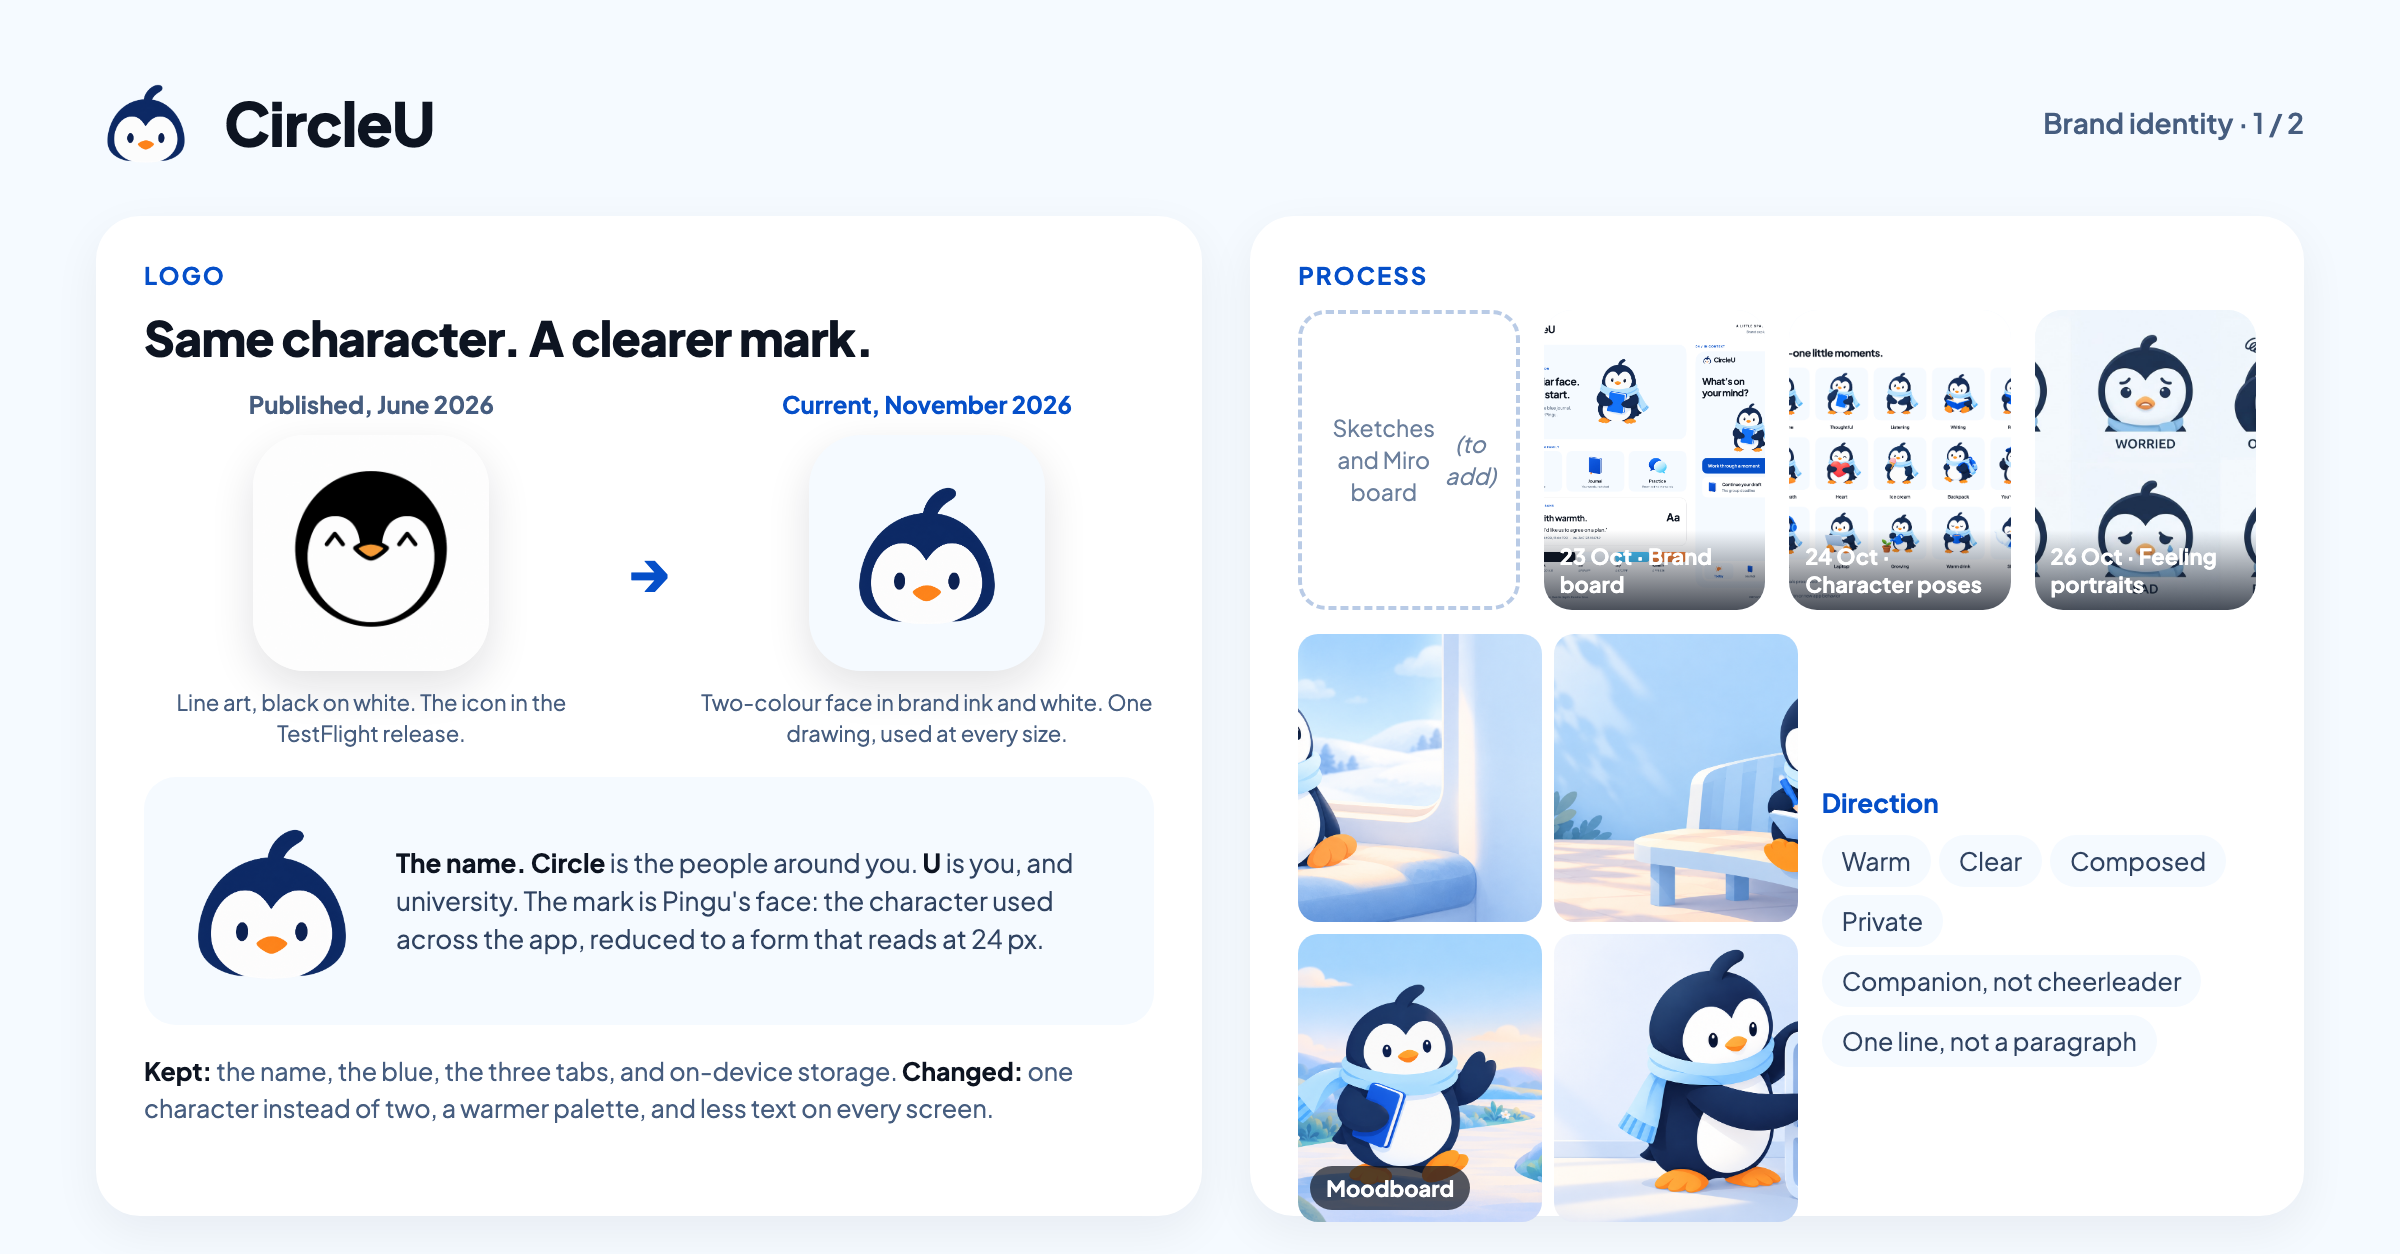
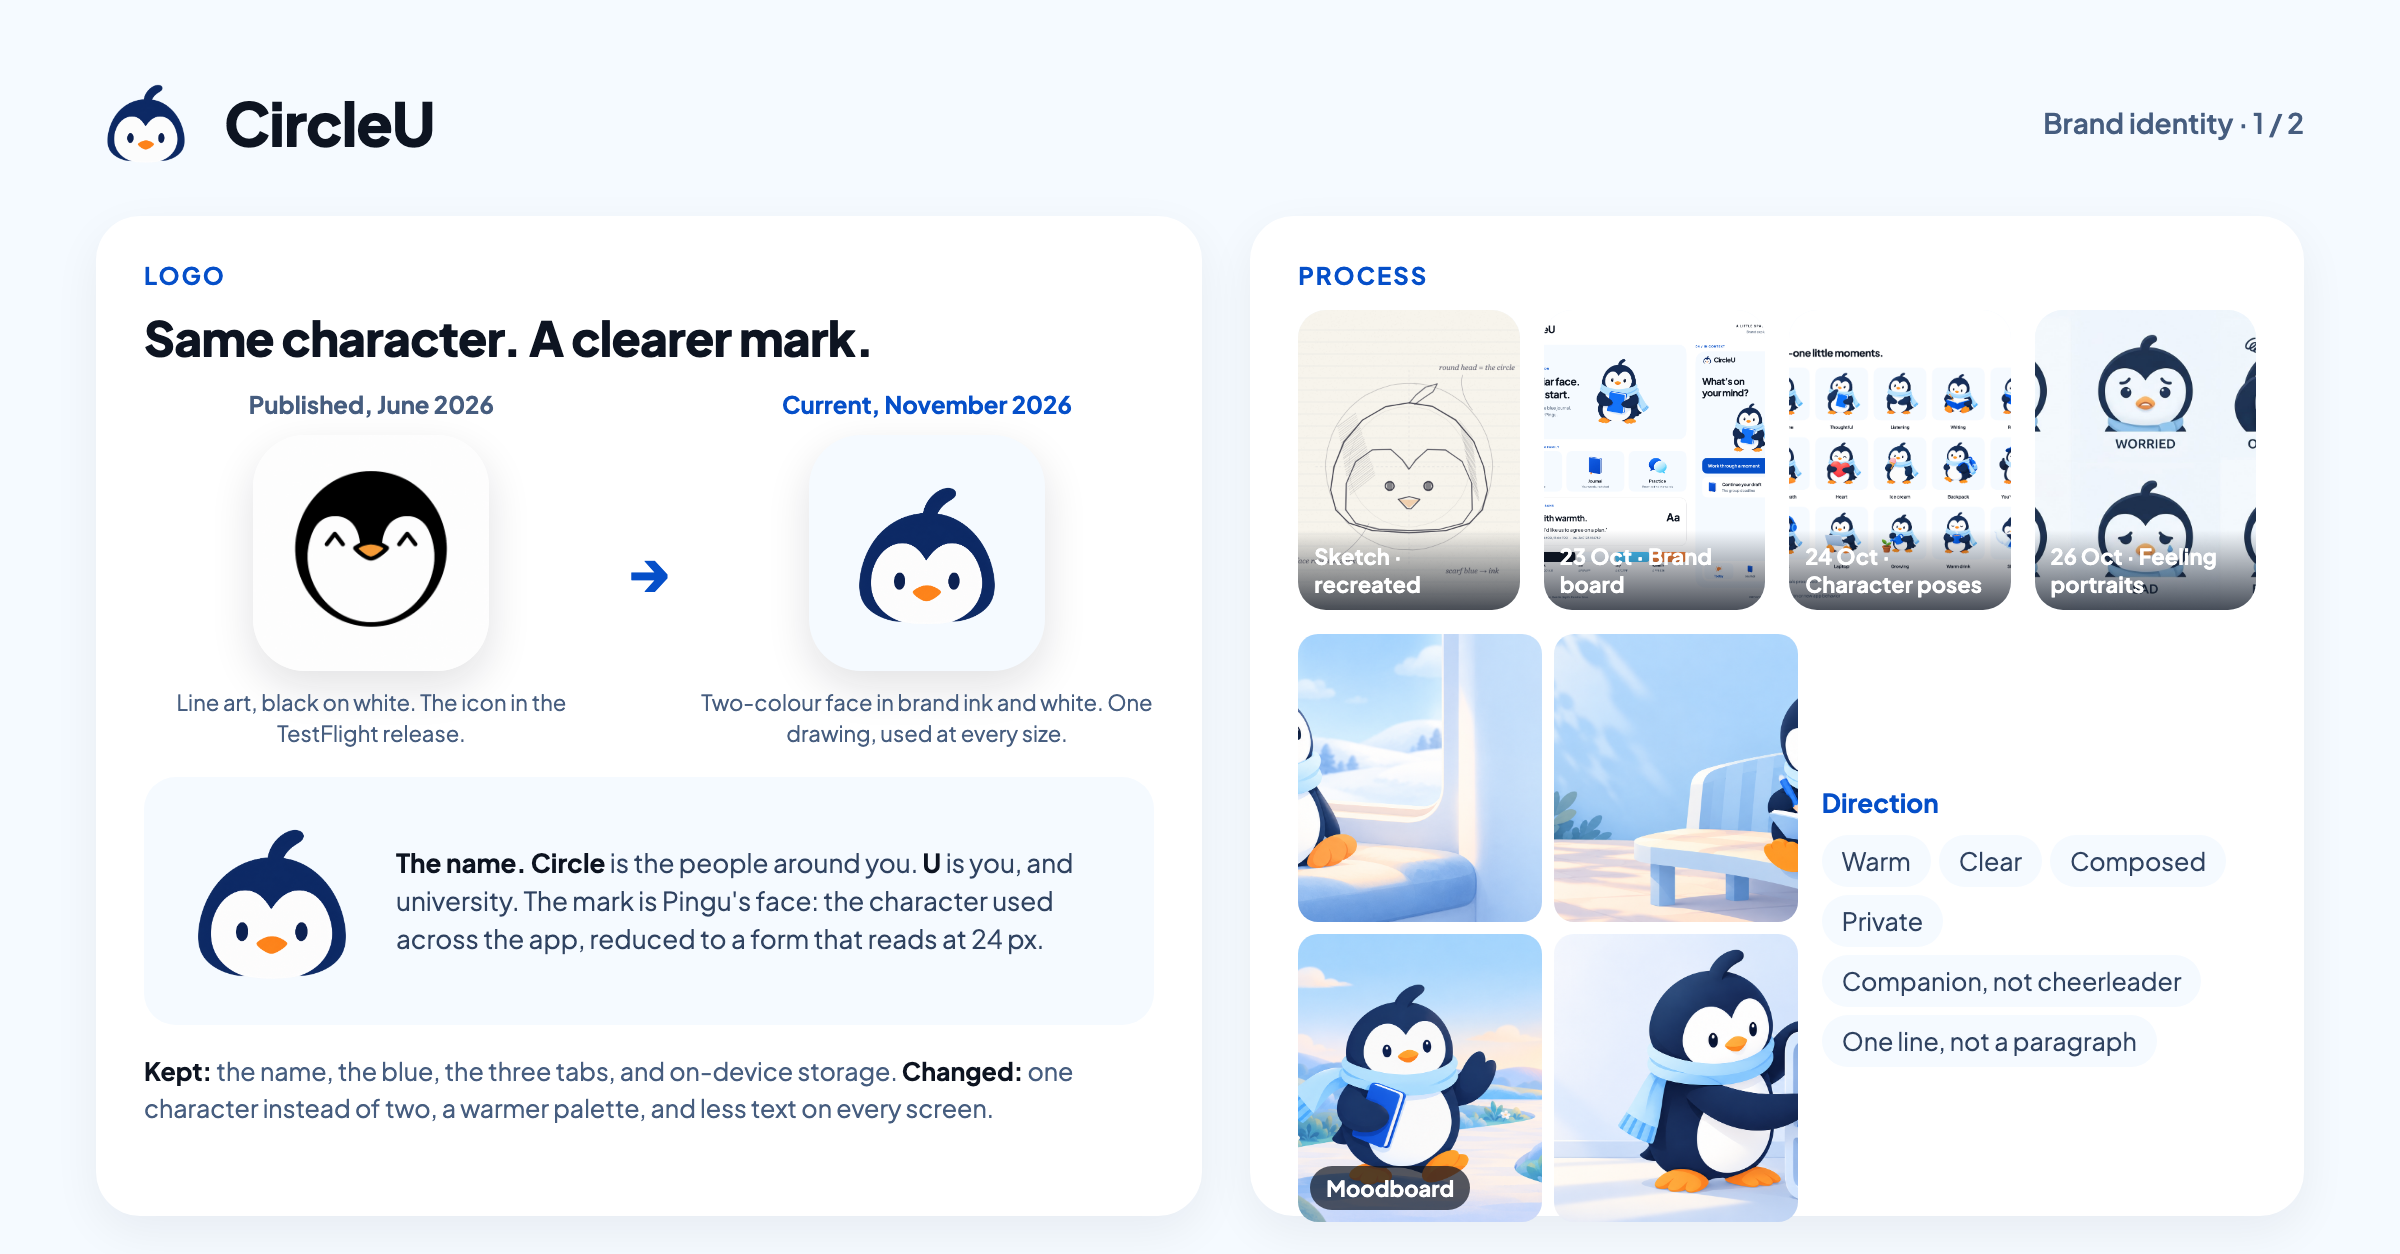
docs(linkedin): recreated construction sketch of the mark fills the process slot on brand slide 1

Changed region(s): [[0.5312, 0.2799, 0.6562, 0.4976]]

diff --git a/docs/design/showcase-2026-10-30/refinement-07/linkedin/sketch.html b/docs/design/showcase-2026-10-30/refinement-07/linkedin/sketch.html
@@ -1,0 +1,37 @@
+<!doctype html><html><head><meta charset="utf-8"><style>*{margin:0}html,body{width:900px;height:900px;overflow:hidden;background:#fff}canvas{display:block}</style></head><body>
+<canvas id="c" width="900" height="900"></canvas>
+<script>
+const c=document.getElementById('c'),x=c.getContext('2d');
+// paper
+x.fillStyle='#f7f4ec';x.fillRect(0,0,900,900);
+let seed=7;const rnd=()=>{seed=(seed*9301+49297)%233280;return seed/233280};
+for(let i=0;i<9000;i++){x.fillStyle=`rgba(90,80,60,${0.03+rnd()*0.05})`;x.fillRect(rnd()*900,rnd()*900,1.2,1.2)}
+// faint ruled lines
+x.strokeStyle='rgba(120,140,190,.18)';x.lineWidth=1;for(let y=60;y<900;y+=36){x.beginPath();x.moveTo(40,y);x.lineTo(860,y);x.stroke()}
+x.lineCap='round';x.lineJoin='round';
+function wob(fn,passes,alpha,w){for(let p=0;p<passes;p++){x.strokeStyle=`rgba(40,40,55,${alpha})`;x.lineWidth=w+rnd()*0.8;x.beginPath();fn(p);x.stroke()}}
+function circle(cx,cy,r,passes,alpha,w){wob(p=>{const o=rnd()*6.28;for(let t=0;t<=6.4;t+=0.08){const j=(rnd()-0.5)*2.2;const px=cx+(r+j)*Math.cos(t+o),py=cy+(r+j)*Math.sin(t+o);t===0?x.moveTo(px,py):x.lineTo(px,py)}},passes,alpha,w)}
+function path(pts,passes,alpha,w){wob(p=>{pts.forEach(([px,py],i)=>{const jx=px+(rnd()-0.5)*2.5,jy=py+(rnd()-0.5)*2.5;i?x.lineTo(jx,jy):x.moveTo(jx,jy)})},passes,alpha,w)}
+// construction circles (light)
+circle(450,470,250,2,.18,1); circle(450,470,180,1,.12,1);
+x.setLineDash([6,8]);x.strokeStyle='rgba(60,70,110,.25)';x.lineWidth=1;x.beginPath();x.moveTo(450,180);x.lineTo(450,760);x.moveTo(170,470);x.lineTo(730,470);x.stroke();x.setLineDash([]);
+// head: a soft dome, flatter at the bottom
+path([[215,540],[225,470],[255,395],[310,330],[380,290],[450,278],[520,290],[590,330],[645,395],[675,470],[685,540],[670,600],[630,640],[560,662],[450,668],[340,662],[270,640],[230,600],[215,540]],3,.55,2.4);
+// face mask: two lobes meeting in a point at the top
+path([[260,600],[262,520],[290,455],[340,420],[395,418],[430,450],[450,478],[470,450],[505,418],[560,420],[610,455],[638,520],[640,600],[610,640],[540,658],[450,662],[360,658],[290,640],[260,600]],3,.5,2);
+// crest
+path([[450,280],[470,255],[500,232],[535,222]],2,.5,2.2); path([[535,222],[522,245],[497,262],[468,282]],2,.45,2);
+// eyes
+circle(392,528,13,3,.6,2.2); circle(508,528,13,3,.6,2.2);
+x.fillStyle='rgba(40,40,55,.55)';x.beginPath();x.ellipse(392,528,9,13,0,0,6.3);x.fill();x.beginPath();x.ellipse(508,528,9,13,0,0,6.3);x.fill();
+// beak
+path([[418,568],[450,560],[482,568],[456,596],[444,596],[418,568]],3,.55,2); x.fillStyle='rgba(230,140,60,.35)';x.beginPath();x.moveTo(420,569);x.lineTo(480,569);x.lineTo(450,594);x.closePath();x.fill();
+// hatching on the dark head area (left side)
+for(let i=0;i<34;i++){const t=i/34;path([[235+t*40,350+t*210],[290+t*60,310+t*190]],1,.22,1)}
+for(let i=0;i<30;i++){const t=i/30;path([[600+t*40,330+t*200],[640+t*20,380+t*200]],1,.2,1)}
+// notes
+x.fillStyle='rgba(60,60,80,.75)';x.font='italic 22px "Plus Jakarta Sans", Georgia, serif';
+x.fillText('round head = the circle',540,180);x.fillText('face reads at 24px?',110,760);x.fillText('scarf blue → ink',560,790);x.fillText('v3',790,100);
+x.strokeStyle='rgba(60,60,80,.5)';x.lineWidth=1.2;x.beginPath();x.moveTo(610,195);x.quadraticCurveTo(600,250,640,300);x.stroke();
+x.beginPath();x.moveTo(240,740);x.quadraticCurveTo(300,700,330,640);x.stroke();
+</script></body></html>

diff --git a/docs/design/showcase-2026-10-30/refinement-07/linkedin/brand-slide-1.html b/docs/design/showcase-2026-10-30/refinement-07/linkedin/brand-slide-1.html
@@ -49,7 +49,7 @@ body{font-family:"Plus Jakarta Sans",sans-serif;color:#0d1421;background:#f5faff
   <div class="card"><div class="k">Process</div>
     <div class="trail">
       <div class="row">
-        <div class="t slot">Sketches and Miro board<br><em>(to add)</em></div>
+        <div class="t"><img src="assets/sketch.png" alt="" style="object-position:center"><span>Sketch · recreated</span></div>
         <div class="t"><img src="assets/brand-demo.png" alt=""><span>23 Oct · Brand board</span></div>
         <div class="t"><img src="assets/collection-21.png" alt=""><span>24 Oct · Character poses</span></div>
         <div class="t"><img src="assets/emotion-atlas.jpg" alt=""><span>26 Oct · Feeling portraits</span></div>

diff --git a/docs/design/showcase-2026-10-30/refinement-07/linkedin/README.md b/docs/design/showcase-2026-10-30/refinement-07/linkedin/README.md
@@ -2,7 +2,7 @@
 
 1 November 2026. Three 1200 × 627 (rendered at 2×) images for the owner's LinkedIn post about the Miro → Figma → SwiftUI journey, built the same way as the poster (HTML master, headless Chrome).
 
-- Brand, the two-slide set the owner chose on 1 November (the June 2026 TestFlight icon is the published "old" logo): [1 origin: old logo to the circle-U face, idea trail, moodboard](CircleU-LinkedIn-brand-slide-1.png) ([brand-slide-1.html](brand-slide-1.html); it keeps a labelled slot for the owner's paper sketch or Miro board) and [2 colour, type, in use](CircleU-LinkedIn-brand-slide-2.png) ([brand-slide-2.html](brand-slide-2.html)).
+- Brand, the two-slide set the owner chose on 1 November (the June 2026 TestFlight icon is the published "old" logo): [1 origin: old logo to the circle-U face, idea trail, moodboard](CircleU-LinkedIn-brand-slide-1.png) ([brand-slide-1.html](brand-slide-1.html); the first process tile is a pencil-style construction sketch of the mark drawn in canvas ([sketch.html](sketch.html)) and labelled "recreated", since no original paper sketch exists in the repo) and [2 colour, type, in use](CircleU-LinkedIn-brand-slide-2.png) ([brand-slide-2.html](brand-slide-2.html)).
 - Earlier three-board set, kept for reference: [idea, logo, mascot](CircleU-LinkedIn-brand-2.png) ([brand-2.html](brand-2.html)), [palette, type, icons, scenes, feelings](CircleU-LinkedIn-brand.png) ([brand.html](brand.html)), [in use](CircleU-LinkedIn-brand-3.png) ([brand-3.html](brand-3.html)). The clear-space and minimum-size figures on the logo board are proposals; the branding guideline's lockup rules are still an open deliverable.
 - [Figma prototype board](CircleU-LinkedIn-figma.png) from [figma.html](figma.html): five frames exported from the `CircleU • current prototype` page, laid out on a Figma-styled canvas with real counts (130 frames, 1,669 links). It is a composed image, not a screenshot of the Figma app.
 - Rebrand story, in the shape of a rebrand case-study post: [1 why and the idea, with before/after](CircleU-LinkedIn-story-1.png) ([story-1.html](story-1.html)), [2 a dated six-step timeline of the asset build, using the real 23 Oct brand board, 24 Oct avatar sheet, 26 Oct emotion atlas and 30 Oct scenes](CircleU-LinkedIn-story-2.png) ([story-2.html](story-2.html)), and the in-use board above as part 3. The "before" is the real 26 October Today capture and the old app icon.
